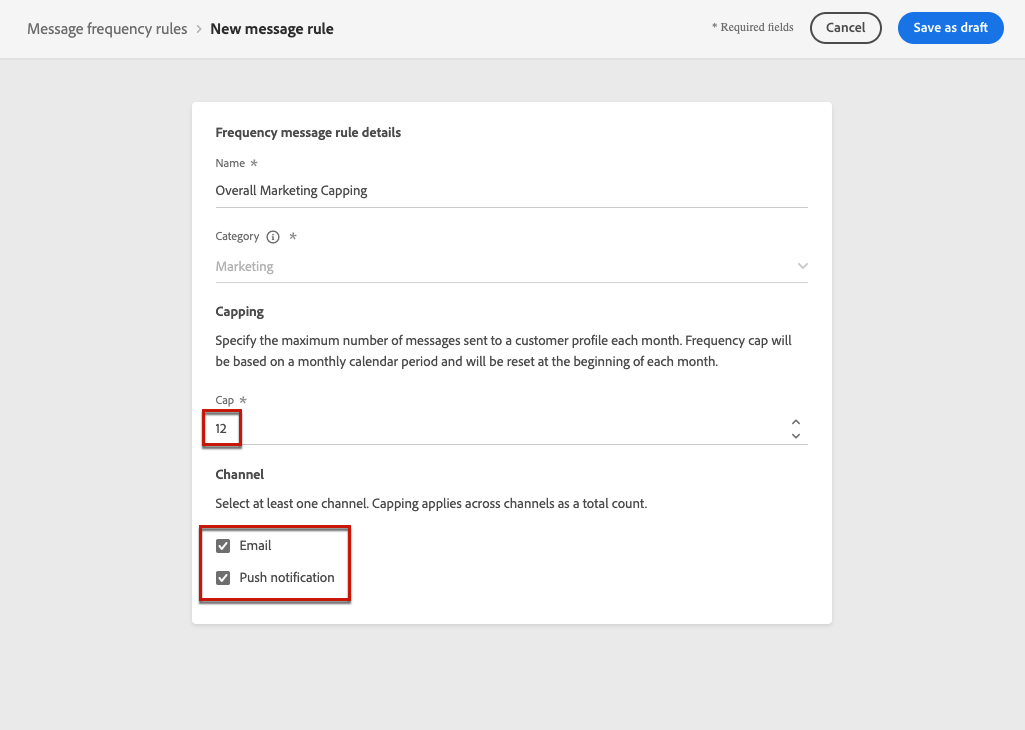
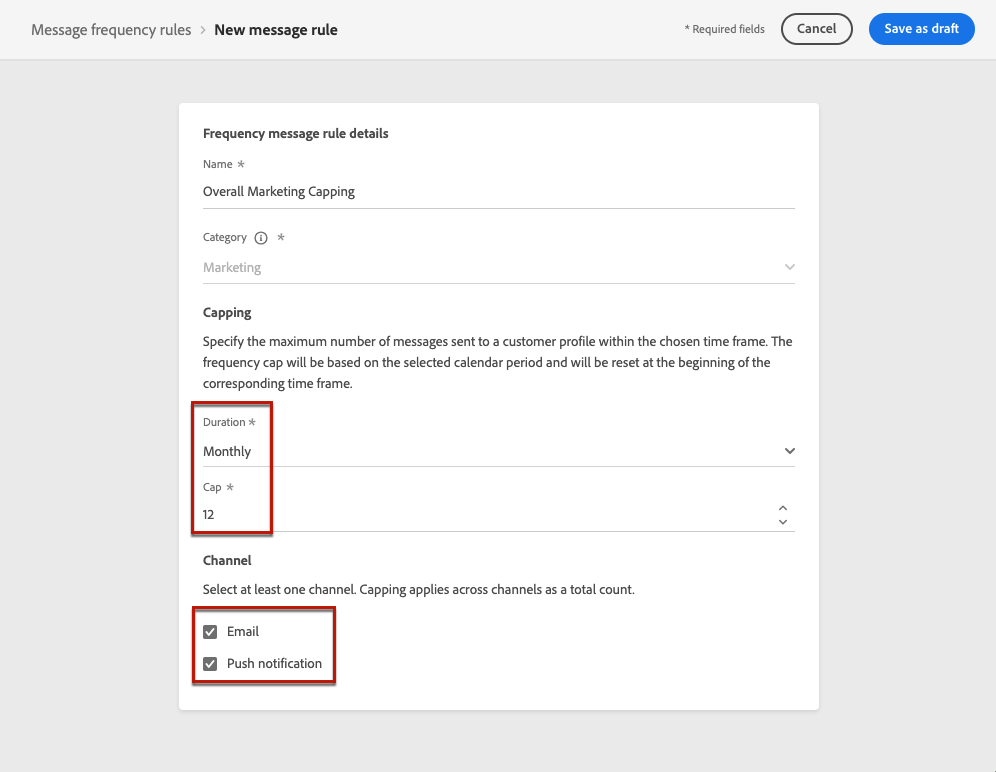
rules small updates

diff --git a/help/using/configuration/frequency-rules.md b/help/using/configuration/frequency-rules.md
@@ -168,14 +168,14 @@ You can combine several message frequency rules, such as described in the exampl
 1. [Create a rule](#create-new-rule) called *Overall Marketing Capping*:
 
    * Select Email and Push channels.
-   * Set capping to 12.
+   * Set capping to 12 monthly.
 
    ![](assets/message-rules-ex-overall-cap.png)
 
 1. To further restrict the number of marketing-based push notifications that a user is sent, create a second rule called *Push Marketing Cap*:
 
    * Select Push channel.
-   * Set capping to 4.
+   * Set capping to 4 monthly.
 
    ![](assets/message-rules-ex-push-cap.png)
 
